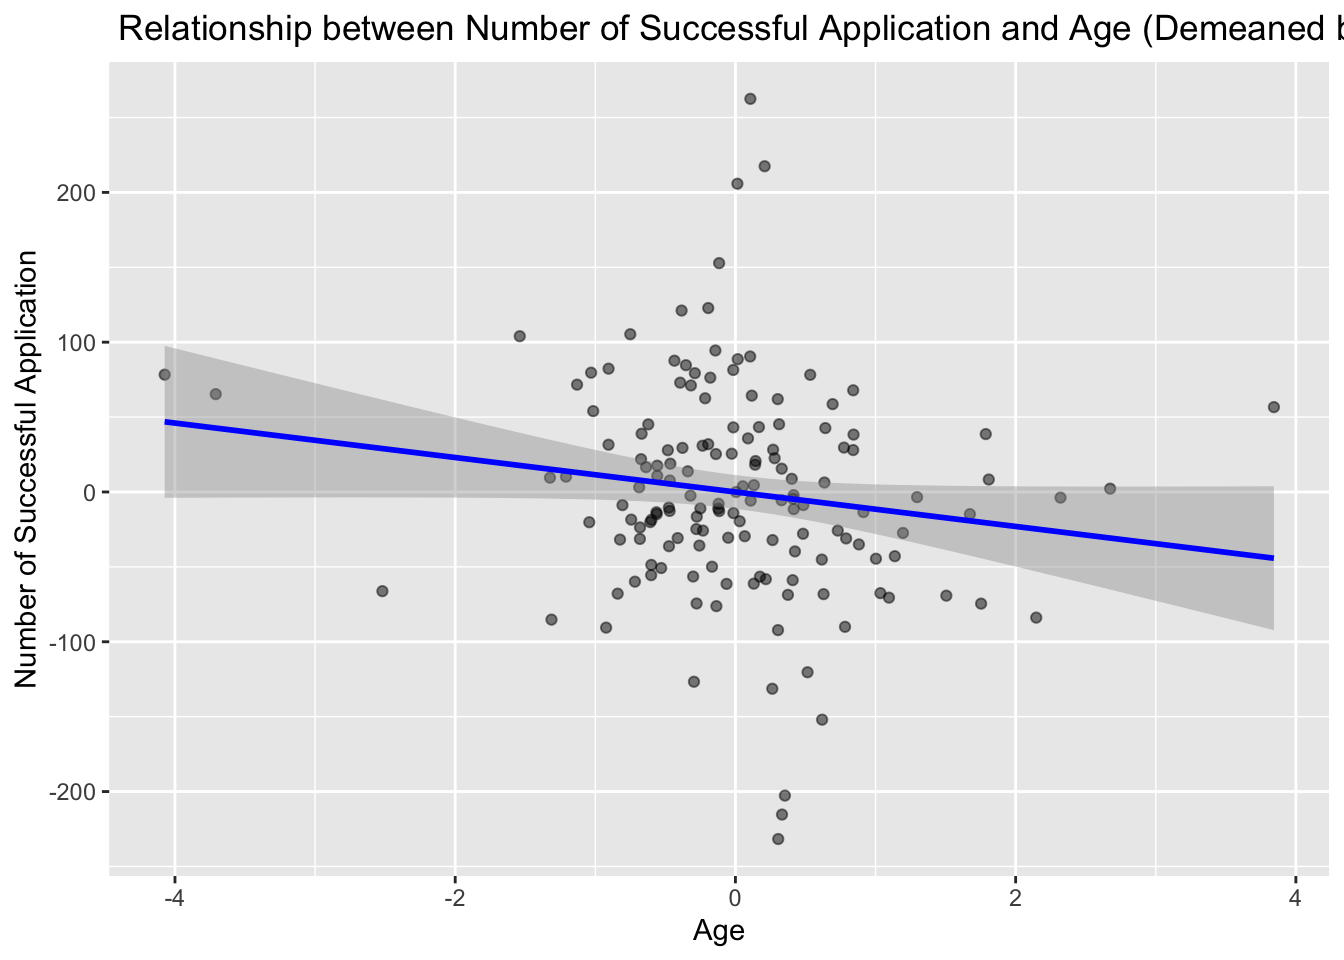
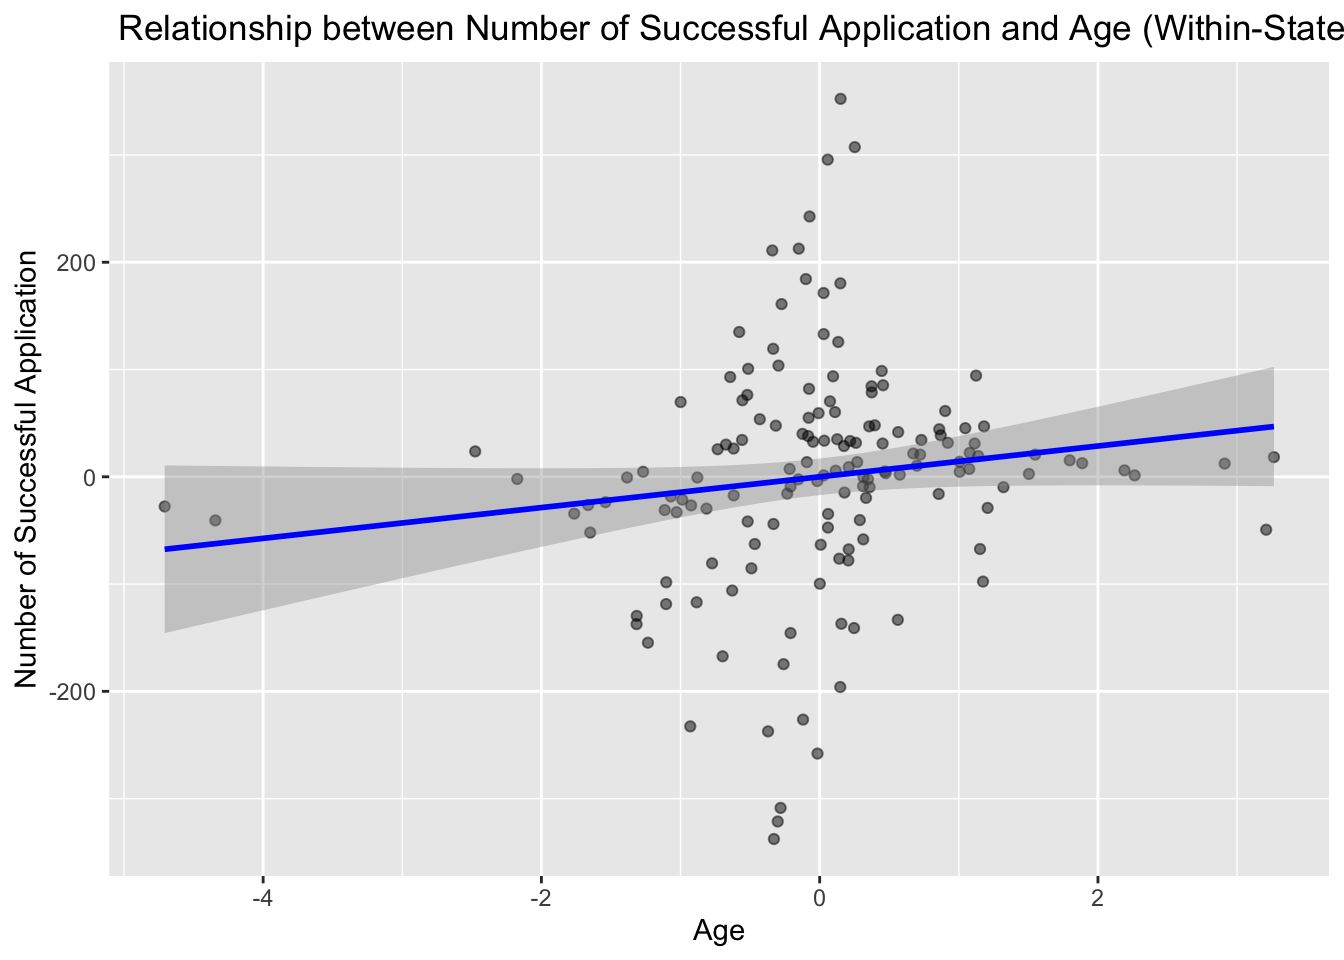
Built site for gh-pages

diff --git a/posts/2025-03-31-blog-4/blog-4.html b/posts/2025-03-31-blog-4/blog-4.html
@@ -243,8 +243,9 @@ pre > code.sourceCode > span > a:first-child::before { text-decoration: underlin
 </ul>
 <p>The census data was retrieved from the United States Census Bureau at this link: https://www.census.gov/data/tables/time-series/demo/popest/2020s-state-total.html</p>
 </section>
-<section id="aggregate-experiment-data-by-state-year-and-race" class="level1">
-<h1>aggregate experiment data by state, year, and race</h1>
+<section id="aggregating-application-data-to-state-level" class="level1">
+<h1>Aggregating Application Data to State Level</h1>
+<p>To begin our analysis, we aggregate individual-level application data into state-level summaries. In this section, we create new variables such as the full name (and its length) and calculate the proportion of applicants with black-sounding names. These measures help us capture nuances in the data that might be related to potential discriminatory practices.</p>
 <div class="cell">
 <div class="sourceCode cell-code" id="cb6"><pre class="sourceCode r code-with-copy"><code class="sourceCode r"><span id="cb6-1"><a href="#cb6-1" aria-hidden="true" tabindex="-1"></a>data<span class="sc">$</span>full_name <span class="ot">&lt;-</span> <span class="fu">paste</span>(data<span class="sc">$</span>firstname, data<span class="sc">$</span>lastname)</span>
 <span id="cb6-2"><a href="#cb6-2" aria-hidden="true" tabindex="-1"></a>data<span class="sc">$</span>name_length <span class="ot">&lt;-</span> <span class="fu">nchar</span>(data<span class="sc">$</span>full_name)</span>
@@ -271,8 +272,9 @@ pre > code.sourceCode > span > a:first-child::before { text-decoration: underlin
 </div>
 </div>
 </section>
-<section id="clean-census-data---continued" class="level1">
-<h1>clean census data - continued</h1>
+<section id="cleaning-and-reshaping-census-data---continued" class="level1">
+<h1>Cleaning and Reshaping Census Data - continued</h1>
+<p>The next step involves cleaning the census data. This dataset provides annual state population counts, which we reshape into a longitudinal (panel) format to facilitate merging with the state-level application data. The cleaning process includes renaming columns, removing extraneous rows, and filtering to include only the relevant states.</p>
 <div class="cell">
 <div class="sourceCode cell-code" id="cb10"><pre class="sourceCode r code-with-copy"><code class="sourceCode r"><span id="cb10-1"><a href="#cb10-1" aria-hidden="true" tabindex="-1"></a><span class="fu">colnames</span>(census_data)[<span class="dv">1</span>] <span class="ot">&lt;-</span> <span class="st">"states"</span></span>
 <span id="cb10-2"><a href="#cb10-2" aria-hidden="true" tabindex="-1"></a></span>
@@ -343,6 +345,7 @@ pre > code.sourceCode > span > a:first-child::before { text-decoration: underlin
 <pre><code>[1] 2020 2021 2022 2023 2024 2019</code></pre>
 </div>
 </div>
+<p>We further process the census data to create a state-year panel, including the state abbreviations necessary for merging with the experimental data.</p>
 <div class="cell">
 <div class="sourceCode cell-code" id="cb17"><pre class="sourceCode r code-with-copy"><code class="sourceCode r"><span id="cb17-1"><a href="#cb17-1" aria-hidden="true" tabindex="-1"></a>state_mapping <span class="ot">&lt;-</span> tibble<span class="sc">::</span><span class="fu">tribble</span>(</span>
 <span id="cb17-2"><a href="#cb17-2" aria-hidden="true" tabindex="-1"></a>  <span class="sc">~</span>states,                     <span class="sc">~</span>state_abbr_exp,</span>
@@ -432,7 +435,7 @@ pre > code.sourceCode > span > a:first-child::before { text-decoration: underlin
 </div>
 </section>
 <section id="plot-callback-rate-by-state-facet-by-year" class="level1">
-<h1>plot callback rate by state (facet by year)</h1>
+<h1>Plot callback rate by state (facet by year)</h1>
 <div class="cell">
 <div class="sourceCode cell-code" id="cb18"><pre class="sourceCode r code-with-copy"><code class="sourceCode r"><span id="cb18-1"><a href="#cb18-1" aria-hidden="true" tabindex="-1"></a>national_summary <span class="ot">&lt;-</span> merged_data <span class="sc">%&gt;%</span></span>
 <span id="cb18-2"><a href="#cb18-2" aria-hidden="true" tabindex="-1"></a>  <span class="fu">group_by</span>(year) <span class="sc">%&gt;%</span></span>
@@ -460,8 +463,9 @@ pre > code.sourceCode > span > a:first-child::before { text-decoration: underlin
 </div>
 </div>
 </section>
-<section id="logit-model-to-estimate-the-relationship-between-callback-rate-and-age" class="level1">
-<h1>logit model to estimate the relationship between callback rate and age</h1>
+<section id="statistical-modeling-linear-relating-age-to-callback-success" class="level1">
+<h1>Statistical Modeling (Linear): Relating Age to Callback Success</h1>
+<p>In the first model, we transform the callback rate into a count of successes by multiplying it with the number of submissions.</p>
 <div class="cell">
 <div class="sourceCode cell-code" id="cb19"><pre class="sourceCode r code-with-copy"><code class="sourceCode r"><span id="cb19-1"><a href="#cb19-1" aria-hidden="true" tabindex="-1"></a>merged_data <span class="ot">&lt;-</span> merged_data <span class="sc">%&gt;%</span></span>
 <span id="cb19-2"><a href="#cb19-2" aria-hidden="true" tabindex="-1"></a>  <span class="fu">mutate</span>(<span class="at">success =</span> callback_rate <span class="sc">*</span> num_sub)</span>
@@ -490,9 +494,11 @@ F Statistic            2.818* (df = 1; 149)
 Note:               *p&lt;0.1; **p&lt;0.05; ***p&lt;0.01</code></pre>
 </div>
 </div>
+<p>While the linear model is a simplification, it serves as a starting point for our further investigation using fixed effects.</p>
 </section>
-<section id="visualizing-the-relationship-between-callback-rate-and-age" class="level1">
-<h1>visualizing the relationship between callback rate and age</h1>
+<section id="visualizing-the-logit-relationship-between-callback-rate-and-age" class="level1">
+<h1>Visualizing the Logit Relationship between Callback Rate and Age</h1>
+<p>To complement our regression analysis, we visualize the relationship between age and callback rate using a scatter plot with a fitted smooth curve. This plot helps to highlight any nonlinearities or trends that may not be apparent from the regression output alone.</p>
 <div class="cell">
 <div class="sourceCode cell-code" id="cb21"><pre class="sourceCode r code-with-copy"><code class="sourceCode r"><span id="cb21-1"><a href="#cb21-1" aria-hidden="true" tabindex="-1"></a>merged_data <span class="sc">%&gt;%</span></span>
 <span id="cb21-2"><a href="#cb21-2" aria-hidden="true" tabindex="-1"></a>  <span class="fu">ggplot</span>(<span class="fu">aes</span>(<span class="at">x =</span> age, <span class="at">y =</span> callback_rate)) <span class="sc">+</span></span>
@@ -517,40 +523,42 @@ Note:               *p&lt;0.1; **p&lt;0.05; ***p&lt;0.01</code></pre>
 </div>
 </div>
 </section>
-<section id="two-way-fixed-effects-model-to-estimate-the-relationship-between-callback-rate-and-age" class="level1">
-<h1>two-way fixed effects model to estimate the relationship between callback rate and age</h1>
+<section id="fixed-effect-effect-of-age-on-success-within-states" class="level1">
+<h1>Fixed Effect: Effect of Age on Success within States</h1>
+<p>The first fixed effects model controls for state-specific characteristics. Here, we decompose age and success into their within-state (demeaned) components, allowing us to examine the relationship between these variables within each state.</p>
 <div class="cell">
 <div class="sourceCode cell-code" id="cb23"><pre class="sourceCode r code-with-copy"><code class="sourceCode r"><span id="cb23-1"><a href="#cb23-1" aria-hidden="true" tabindex="-1"></a>merged_data <span class="ot">&lt;-</span> merged_data <span class="sc">%&gt;%</span></span>
 <span id="cb23-2"><a href="#cb23-2" aria-hidden="true" tabindex="-1"></a>  <span class="fu">mutate</span>(<span class="at">success =</span> callback_rate <span class="sc">*</span> num_sub)</span>
 <span id="cb23-3"><a href="#cb23-3" aria-hidden="true" tabindex="-1"></a>  <span class="co"># here we convert the callback rate to the number of callbacks for the fixed effects linear model</span></span>
 <span id="cb23-4"><a href="#cb23-4" aria-hidden="true" tabindex="-1"></a></span>
-<span id="cb23-5"><a href="#cb23-5" aria-hidden="true" tabindex="-1"></a><span class="co"># within variations (year + state fixed effects)</span></span>
-<span id="cb23-6"><a href="#cb23-6" aria-hidden="true" tabindex="-1"></a>mod_2 <span class="ot">&lt;-</span> <span class="fu">feols</span>(success <span class="sc">~</span> age <span class="sc">|</span> state <span class="sc">+</span> year, <span class="at">data =</span> merged_data)</span>
-<span id="cb23-7"><a href="#cb23-7" aria-hidden="true" tabindex="-1"></a><span class="fu">summary</span>(mod_2)</span></code><button title="Copy to Clipboard" class="code-copy-button"><i class="bi"></i></button></pre></div>
+<span id="cb23-5"><a href="#cb23-5" aria-hidden="true" tabindex="-1"></a><span class="co"># within-state variations</span></span>
+<span id="cb23-6"><a href="#cb23-6" aria-hidden="true" tabindex="-1"></a>mod_2 <span class="ot">&lt;-</span> <span class="fu">feols</span>(success <span class="sc">~</span> age <span class="sc">|</span> state, <span class="at">data =</span> merged_data)</span>
+<span id="cb23-7"><a href="#cb23-7" aria-hidden="true" tabindex="-1"></a><span class="fu">summary</span>(mod_2) <span class="co"># positive significant effect of age on success (but this is for all age groups)</span></span></code><button title="Copy to Clipboard" class="code-copy-button"><i class="bi"></i></button></pre></div>
 <div class="cell-output cell-output-stdout">
 <pre><code>OLS estimation, Dep. Var.: success
 Observations: 151
-Fixed-effects: state: 51,  year: 3
+Fixed-effects: state: 51
 Standard-errors: Clustered (state) 
     Estimate Std. Error t value Pr(&gt;|t|)    
-age -11.5037    6.53436 -1.7605 0.084439 .  
+age  14.3495    5.64623 2.54143 0.014188 *  
 ---
 Signif. codes:  0 '***' 0.001 '**' 0.01 '*' 0.05 '.' 0.1 ' ' 1
-RMSE: 69.8     Adj. R2: 0.6712  
-             Within R2: 0.022975</code></pre>
+RMSE: 105.6     Adj. R2: 0.262927
+              Within R2: 0.020129</code></pre>
 </div>
 </div>
 </section>
 <section id="visualizing-the-relationship-between-callback-rate-and-age-under-fixed-effect" class="level1">
-<h1>visualizing the relationship between callback rate and age under fixed effect</h1>
+<h1>Visualizing the relationship between callback rate and age under fixed effect</h1>
+<p>We then visualize this within-state relationship by plotting the demeaned variables.</p>
 <div class="cell">
 <div class="sourceCode cell-code" id="cb25"><pre class="sourceCode r code-with-copy"><code class="sourceCode r"><span id="cb25-1"><a href="#cb25-1" aria-hidden="true" tabindex="-1"></a><span class="co"># demean age: </span></span>
-<span id="cb25-2"><a href="#cb25-2" aria-hidden="true" tabindex="-1"></a>mod_age <span class="ot">&lt;-</span> <span class="fu">feols</span>(age <span class="sc">~</span> <span class="dv">1</span> <span class="sc">|</span> state <span class="sc">+</span> year, <span class="at">data =</span> merged_data)</span>
+<span id="cb25-2"><a href="#cb25-2" aria-hidden="true" tabindex="-1"></a>mod_age <span class="ot">&lt;-</span> <span class="fu">feols</span>(age <span class="sc">~</span> <span class="dv">1</span> <span class="sc">|</span> state, <span class="at">data =</span> merged_data)</span>
 <span id="cb25-3"><a href="#cb25-3" aria-hidden="true" tabindex="-1"></a>merged_data <span class="ot">&lt;-</span> merged_data <span class="sc">%&gt;%</span></span>
 <span id="cb25-4"><a href="#cb25-4" aria-hidden="true" tabindex="-1"></a>  <span class="fu">mutate</span>(<span class="at">age_demeaned =</span> <span class="fu">resid</span>(mod_age))</span>
 <span id="cb25-5"><a href="#cb25-5" aria-hidden="true" tabindex="-1"></a></span>
 <span id="cb25-6"><a href="#cb25-6" aria-hidden="true" tabindex="-1"></a><span class="co"># demean success:</span></span>
-<span id="cb25-7"><a href="#cb25-7" aria-hidden="true" tabindex="-1"></a>mod_rate <span class="ot">&lt;-</span> <span class="fu">feols</span>(success <span class="sc">~</span> <span class="dv">1</span> <span class="sc">|</span> state <span class="sc">+</span> year, <span class="at">data =</span> merged_data)</span>
+<span id="cb25-7"><a href="#cb25-7" aria-hidden="true" tabindex="-1"></a>mod_rate <span class="ot">&lt;-</span> <span class="fu">feols</span>(success <span class="sc">~</span> <span class="dv">1</span> <span class="sc">|</span> state, <span class="at">data =</span> merged_data)</span>
 <span id="cb25-8"><a href="#cb25-8" aria-hidden="true" tabindex="-1"></a>merged_data <span class="ot">&lt;-</span> merged_data <span class="sc">%&gt;%</span></span>
 <span id="cb25-9"><a href="#cb25-9" aria-hidden="true" tabindex="-1"></a>  <span class="fu">mutate</span>(<span class="at">success_demeaned =</span> <span class="fu">resid</span>(mod_rate))</span>
 <span id="cb25-10"><a href="#cb25-10" aria-hidden="true" tabindex="-1"></a></span>
@@ -558,7 +566,7 @@ RMSE: 69.8     Adj. R2: 0.6712
 <span id="cb25-12"><a href="#cb25-12" aria-hidden="true" tabindex="-1"></a>  <span class="fu">geom_point</span>(<span class="at">alpha =</span> <span class="fl">0.5</span>) <span class="sc">+</span></span>
 <span id="cb25-13"><a href="#cb25-13" aria-hidden="true" tabindex="-1"></a>  <span class="fu">geom_smooth</span>(<span class="at">method =</span> <span class="st">"lm"</span>, <span class="at">color =</span> <span class="st">"blue"</span>) <span class="sc">+</span></span>
 <span id="cb25-14"><a href="#cb25-14" aria-hidden="true" tabindex="-1"></a>  <span class="fu">labs</span>(</span>
-<span id="cb25-15"><a href="#cb25-15" aria-hidden="true" tabindex="-1"></a>    <span class="at">title =</span> <span class="st">" Relationship between Number of Successful Application and Age (Demeaned by State and Year)"</span>,</span>
+<span id="cb25-15"><a href="#cb25-15" aria-hidden="true" tabindex="-1"></a>    <span class="at">title =</span> <span class="st">" Relationship between Number of Successful Application and Age (Within-State)"</span>,</span>
 <span id="cb25-16"><a href="#cb25-16" aria-hidden="true" tabindex="-1"></a>    <span class="at">x =</span> <span class="st">"Age"</span>,</span>
 <span id="cb25-17"><a href="#cb25-17" aria-hidden="true" tabindex="-1"></a>    <span class="at">y =</span> <span class="st">"Number of Successful Application"</span></span>
 <span id="cb25-18"><a href="#cb25-18" aria-hidden="true" tabindex="-1"></a>  )</span></code><button title="Copy to Clipboard" class="code-copy-button"><i class="bi"></i></button></pre></div>
@@ -574,10 +582,30 @@ RMSE: 69.8     Adj. R2: 0.6712
 </div>
 </div>
 </section>
+<section id="between-fixed-effect-effect-of-age-on-success-between-states" class="level1">
+<h1>Between Fixed Effect: Effect of Age on Success between States</h1>
+<p>Finally, we assess the effect of age on success between states while controlling for year-specific effects. This model examines whether differences in average age across states are associated with variations in callback success at a broader level.</p>
+<div class="cell">
+<div class="sourceCode cell-code" id="cb27"><pre class="sourceCode r code-with-copy"><code class="sourceCode r"><span id="cb27-1"><a href="#cb27-1" aria-hidden="true" tabindex="-1"></a>mod_3 <span class="ot">&lt;-</span> <span class="fu">feols</span>(success <span class="sc">~</span> age <span class="sc">|</span>year, <span class="at">data =</span> merged_data)</span>
+<span id="cb27-2"><a href="#cb27-2" aria-hidden="true" tabindex="-1"></a><span class="fu">summary</span>(mod_3) <span class="co"># no significant effect of age on success </span></span></code><button title="Copy to Clipboard" class="code-copy-button"><i class="bi"></i></button></pre></div>
+<div class="cell-output cell-output-stdout">
+<pre><code>OLS estimation, Dep. Var.: success
+Observations: 151
+Fixed-effects: year: 3
+Standard-errors: Clustered (year) 
+    Estimate Std. Error  t value Pr(&gt;|t|) 
+age    1.451    3.08765 0.469936  0.68466 
+---
+Signif. codes:  0 '***' 0.001 '**' 0.01 '*' 0.05 '.' 0.1 ' ' 1
+RMSE: 129.9     Adj. R2: 0.248447
+              Within R2: 1.778e-4</code></pre>
+</div>
+</div>
+</section>
 <section id="save-the-merged-data-for-future-use" class="level1">
 <h1>save the merged data for future use</h1>
 <div class="cell">
-<div class="sourceCode cell-code" id="cb27"><pre class="sourceCode r code-with-copy"><code class="sourceCode r"><span id="cb27-1"><a href="#cb27-1" aria-hidden="true" tabindex="-1"></a><span class="fu">saveRDS</span>(merged_data, <span class="st">"dataset/merged_data_state_by_year.rds"</span>)</span></code><button title="Copy to Clipboard" class="code-copy-button"><i class="bi"></i></button></pre></div>
+<div class="sourceCode cell-code" id="cb29"><pre class="sourceCode r code-with-copy"><code class="sourceCode r"><span id="cb29-1"><a href="#cb29-1" aria-hidden="true" tabindex="-1"></a><span class="fu">saveRDS</span>(merged_data, <span class="st">"dataset/merged_data_state_by_year.rds"</span>)</span></code><button title="Copy to Clipboard" class="code-copy-button"><i class="bi"></i></button></pre></div>
 </div>
 
 

diff --git a/index.html b/index.html
@@ -212,7 +212,7 @@ window.Quarto = {
 
 <div class="quarto-listing quarto-listing-container-default" id="listing-listing">
 <div class="list quarto-listing-default">
-<div class="quarto-post image-right" data-index="0" data-listing-date-sort="1743393600000" data-listing-file-modified-sort="1743131231048" data-listing-date-modified-sort="NaN" data-listing-reading-time-sort="10" data-listing-word-count-sort="1952">
+<div class="quarto-post image-right" data-index="0" data-listing-date-sort="1743393600000" data-listing-file-modified-sort="1743288162757" data-listing-date-modified-sort="NaN" data-listing-reading-time-sort="12" data-listing-word-count-sort="2252">
 <div class="thumbnail">
 <p><a href="./posts/2025-03-31-blog-4/blog-4.html" class="no-external"></a></p><a href="./posts/2025-03-31-blog-4/blog-4.html" class="no-external">
 <p class="card-img-top"><img src="posts/2025-03-31-blog-4/blog-4_files/figure-html/unnamed-chunk-8-1.png"  class="thumbnail-image card-img"/></p>
